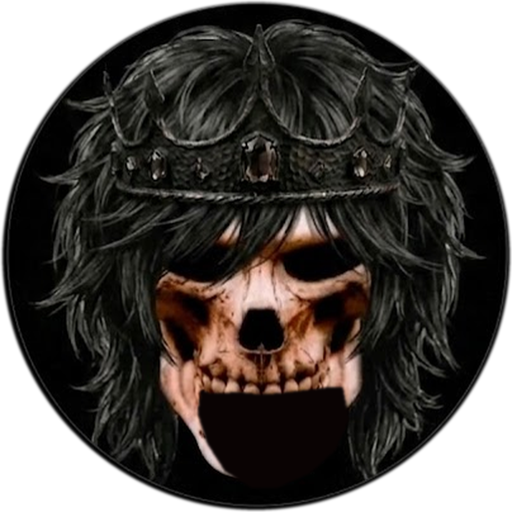
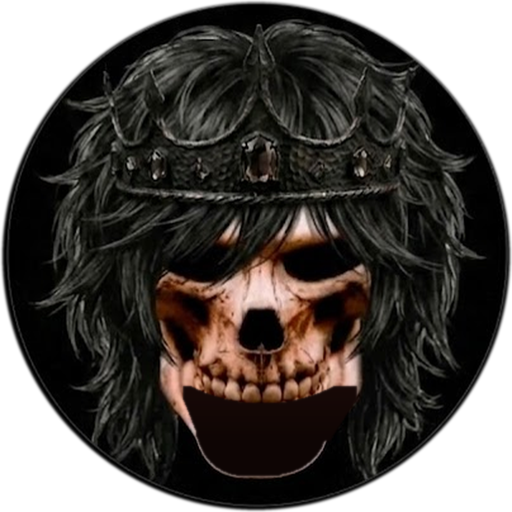
first try skull animation 3

Changed region(s): [[0.3438, 0.75, 0.7188, 0.9375], [0.5938, 0.875, 0.625, 0.9062]]

diff --git a/src/components/SkullSpeaker.jsx b/src/components/SkullSpeaker.jsx
@@ -16,14 +16,43 @@ export default function SkullSpeaker() {
   const ctxRef = useRef(null);
   const pollRef = useRef(0);
 
-  const setJaw = (v) => rootRef.current && rootRef.current.style.setProperty('--jaw', v.toFixed(3));
+  const canvasRef = useRef(null);
+  const sheetRef = useRef(null);
+  const frameRef = useRef({ k: 0, t: 0 });
+
+  // Mouth is drawn from 6 pre-made frames (0 = closed ... 5 = wide open), switched about 16 times a second.
+  const FRAMES = 6, FX = 170, FY = 376, FW = 200, FH = 136;
+  const drawFrame = (k) => {
+    const c = canvasRef.current, img = sheetRef.current;
+    if (!c || !img || !img.complete) return;
+    const ctx = c.getContext('2d');
+    ctx.clearRect(0, 0, 512, 512);
+    ctx.drawImage(img, k * FW, 0, FW, FH, FX, FY, FW, FH);
+  };
+  // v = 0..1 mouth openness. force=true skips the speed limit (used for closing).
+  const setJaw = (v, force) => {
+    const now = performance.now();
+    const k = Math.max(0, Math.min(FRAMES - 1, Math.round(v * (FRAMES - 1))));
+    const f = frameRef.current;
+    if (k === f.k) return;
+    if (!force && now - f.t < 60) return;
+    f.k = k; f.t = now;
+    drawFrame(k);
+  };
+
+  useEffect(() => {
+    const img = new Image();
+    img.onload = () => drawFrame(0);
+    img.src = '/skull-mouth.png';
+    sheetRef.current = img;
+  }, []);
 
   const stop = useCallback(() => {
     cancelAnimationFrame(rafRef.current);
     clearInterval(pollRef.current);
     try { window.speechSynthesis && window.speechSynthesis.cancel(); } catch (e) {}
     if (audioRef.current) { audioRef.current.onended = null; audioRef.current.onerror = null; audioRef.current.pause(); audioRef.current = null; }
-    setJaw(0);
+    setJaw(0, true);
     setSpeaking(false);
   }, []);
 
@@ -55,7 +84,7 @@ export default function SkullSpeaker() {
       for (let i = 0; i < buf.length; i++) { const v = (buf[i] - 128) / 128; sum += v * v; }
       const rms = Math.sqrt(sum / buf.length);
       const target = rms < 0.015 ? 0 : Math.min(1, (rms - 0.015) * 7);   // gate small noise
-      jaw += (target - jaw) * (target > jaw ? 0.55 : 0.25);               // quick open, slower close
+      jaw += (target - jaw) * (target > jaw ? 0.5 : 0.2);                // quick open, slower close
       setJaw(jaw);
       rafRef.current = requestAnimationFrame(tick);
     };
@@ -109,12 +138,11 @@ export default function SkullSpeaker() {
       <div className="skull-frame">
         <img src="/skull-base.png" alt="" className="skull-layer" />
         <img src="/skull-eyes.png" alt="" className="skull-layer skull-eyes" />
-        <img src="/skull-jaw.png" alt="" className="skull-layer skull-jaw" />
+        <canvas ref={canvasRef} width="512" height="512" className="skull-layer" />
       </div>
       <button type="button" className="btn btn-ghost skull-btn" onClick={toggle}>
         {speaking ? t('home.skull.stop') : t('home.skull.talk')}
       </button>
-      {speaking && <p className="skull-caption" aria-live="polite">{t('home.skull.script')}</p>}
     </div>
   );
 }

diff --git a/src/styles.css b/src/styles.css
@@ -590,12 +590,10 @@ input:focus, .select:focus { border-color: #8b0000; box-shadow: 0 0 0 3px rgba(1
   box-shadow: 0 0 30px rgba(139,0,0,.55), 0 0 80px rgba(139,0,0,.25); transition: box-shadow 1.4s ease; }
 .skull.is-speaking .skull-frame { box-shadow: 0 0 40px rgba(255,20,20,.7), 0 0 110px rgba(220,20,60,.4); }
 .skull-layer { position: absolute; inset: 0; width: 100%; height: 100%; display: block; user-select: none; pointer-events: none; }
-.skull-jaw { transform: translateY(calc(var(--jaw) * 2.6%)); will-change: transform; }
 .skull-eyes { opacity: 0; transition: opacity 1.6s ease; }
 .skull.is-speaking .skull-eyes { opacity: 1; animation: skullEyePulse 2.4s ease-in-out infinite; }
 @keyframes skullEyePulse { 0%,100% { filter: brightness(.9); } 50% { filter: brightness(1.35); } }
 .skull:not(.is-speaking) .skull-frame { animation: skullBreathe 5s ease-in-out infinite; }
 @keyframes skullBreathe { 0%,100% { transform: translateY(0); } 50% { transform: translateY(-3px); } }
-.skull-caption { max-width: 520px; font-size: .95rem; line-height: 1.7; color: #d9c3c3; margin: 0; }
-@media (max-width: 860px) { .skull { align-items: center; } .skull-frame { width: 210px; height: 210px; } .skull-caption { text-align: center; } }
+@media (max-width: 860px) { .skull { align-items: center; } .skull-frame { width: 210px; height: 210px; } }
 @media (prefers-reduced-motion: reduce) { .skull:not(.is-speaking) .skull-frame, .skull.is-speaking .skull-eyes { animation: none; } }
